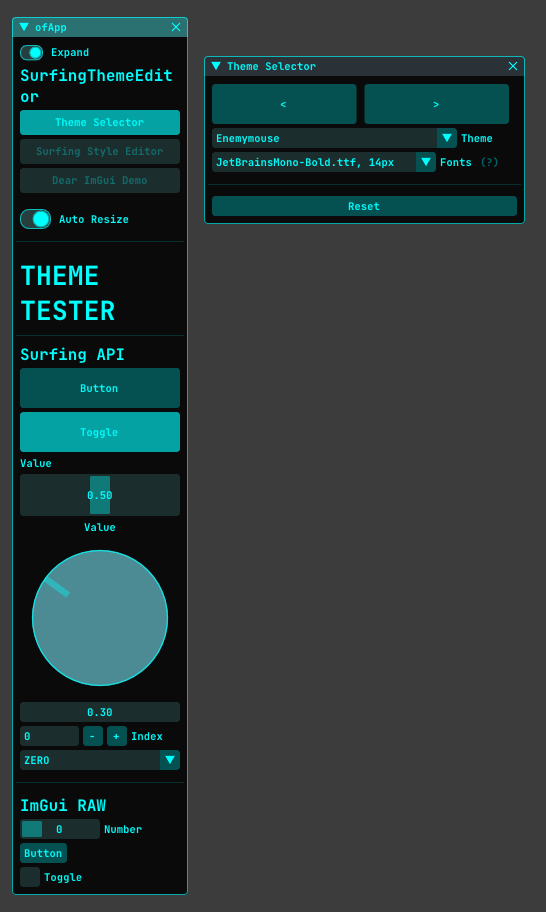
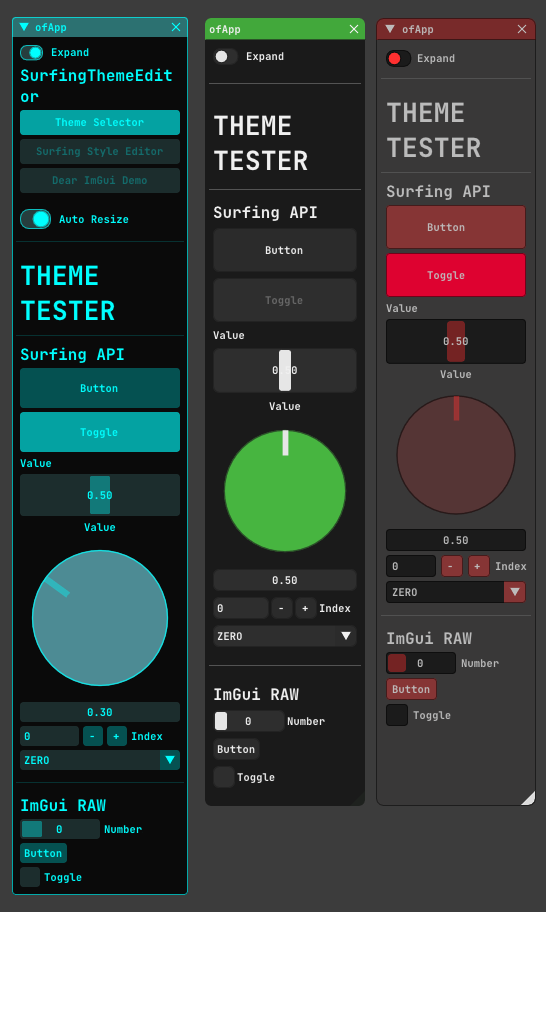
improved theme editor

diff --git a/src/ImGui/themes/SurfingThemes.h b/src/ImGui/themes/SurfingThemes.h
@@ -20,15 +20,11 @@ using namespace ImGui;
 
 namespace ofxImGuiSurfing
 {
-	//TODO: how to link params..
+	// To link with the window.
 	namespace SurfingThemes
 	{
-		static ofParameter<bool> bEnableColors;
-		static ofParameter<bool> bEnableLayout;
-		//ofParameter<bool> bEnableColors;
-		//ofParameter<bool> bEnableLayout;
-		//extern ofParameter<bool> bEnableColors;
-		//extern ofParameter<bool> bEnableLayout;
+		static bool bEnableColors = false;
+		static bool bEnableLayout = false;
 	}
 
 	using namespace SurfingThemes;
@@ -130,39 +126,39 @@ namespace ofxImGuiSurfing
 			style.Colors[ImGuiCol_ScrollbarGrabActive] = ImVec4(0.509f, 0.509f, 0.509f, 1.0f);
 			style.Colors[ImGuiCol_CheckMark] = ImVec4(0.259f, 0.589f, 0.98f, 1.0f);
 			style.Colors[ImGuiCol_SliderGrab] = ImVec4(0.432f, 0.188f, 1.0f, 1.0f);
-			style.Colors[ImGuiCol_SliderGrabActive] = ImVec4(0.2599999904632568f, 0.5899999737739563f, 0.9800000190734863f, 1.0f);
-			style.Colors[ImGuiCol_Button] = ImVec4(0.4034333229064941f, 0.0f, 1.0f, 1.0f);
-			style.Colors[ImGuiCol_ButtonHovered] = ImVec4(0.2588235437870026f, 0.5882353186607361f, 0.9764705896377563f, 1.0f);
-			style.Colors[ImGuiCol_ButtonActive] = ImVec4(1.0f, 0.9785406589508057f, 0.0f, 1.0f);
-			style.Colors[ImGuiCol_Header] = ImVec4(0.2588235437870026f, 0.5882353186607361f, 0.9764705896377563f, 0.3100000023841858f);
-			style.Colors[ImGuiCol_HeaderHovered] = ImVec4(0.2588235437870026f, 0.5882353186607361f, 0.9764705896377563f, 0.800000011920929f);
-			style.Colors[ImGuiCol_HeaderActive] = ImVec4(0.2588235437870026f, 0.5882353186607361f, 0.9764705896377563f, 1.0f);
-			style.Colors[ImGuiCol_Separator] = ImVec4(0.4274509847164154f, 0.4274509847164154f, 0.4980392158031464f, 0.5f);
-			style.Colors[ImGuiCol_SeparatorHovered] = ImVec4(0.09803921729326248f, 0.4000000059604645f, 0.7490196228027344f, 0.7799999713897705f);
-			style.Colors[ImGuiCol_SeparatorActive] = ImVec4(0.09803921729326248f, 0.4000000059604645f, 0.7490196228027344f, 1.0f);
-			style.Colors[ImGuiCol_ResizeGrip] = ImVec4(0.2588235437870026f, 0.5882353186607361f, 0.9764705896377563f, 0.2000000029802322f);
-			style.Colors[ImGuiCol_ResizeGripHovered] = ImVec4(0.2588235437870026f, 0.5882353186607361f, 0.9764705896377563f, 0.6700000166893005f);
-			style.Colors[ImGuiCol_ResizeGripActive] = ImVec4(0.2588235437870026f, 0.5882353186607361f, 0.9764705896377563f, 0.949999988079071f);
-			style.Colors[ImGuiCol_Tab] = ImVec4(0.1764705926179886f, 0.3490196168422699f, 0.5764706134796143f, 0.8619999885559082f);
-			style.Colors[ImGuiCol_TabHovered] = ImVec4(0.2588235437870026f, 0.5882353186607361f, 0.9764705896377563f, 0.800000011920929f);
-			style.Colors[ImGuiCol_TabActive] = ImVec4(0.196078434586525f, 0.407843142747879f, 0.6784313917160034f, 1.0f);
-			style.Colors[ImGuiCol_TabUnfocused] = ImVec4(0.06666667014360428f, 0.1019607856869698f, 0.1450980454683304f, 0.9724000096321106f);
-			style.Colors[ImGuiCol_TabUnfocusedActive] = ImVec4(0.1333333402872086f, 0.2588235437870026f, 0.4235294163227081f, 1.0f);
-			style.Colors[ImGuiCol_PlotLines] = ImVec4(0.6078431606292725f, 0.6078431606292725f, 0.6078431606292725f, 1.0f);
-			style.Colors[ImGuiCol_PlotLinesHovered] = ImVec4(1.0f, 0.4274509847164154f, 0.3490196168422699f, 1.0f);
-			style.Colors[ImGuiCol_PlotHistogram] = ImVec4(0.8980392217636108f, 0.6980392336845398f, 0.0f, 1.0f);
-			style.Colors[ImGuiCol_PlotHistogramHovered] = ImVec4(1.0f, 0.6000000238418579f, 0.0f, 1.0f);
-			style.Colors[ImGuiCol_TableHeaderBg] = ImVec4(0.1882352977991104f, 0.1882352977991104f, 0.2000000029802322f, 1.0f);
-			style.Colors[ImGuiCol_TableBorderStrong] = ImVec4(0.3098039329051971f, 0.3098039329051971f, 0.3490196168422699f, 1.0f);
-			style.Colors[ImGuiCol_TableBorderLight] = ImVec4(0.2274509817361832f, 0.2274509817361832f, 0.2470588237047195f, 1.0f);
-			style.Colors[ImGuiCol_TableRowBg] = ImVec4(0.0f, 0.0f, 0.0f, 0.0f);
-			style.Colors[ImGuiCol_TableRowBgAlt] = ImVec4(1.0f, 1.0f, 1.0f, 0.05999999865889549f);
-			style.Colors[ImGuiCol_TextSelectedBg] = ImVec4(0.2588235437870026f, 0.5882353186607361f, 0.9764705896377563f, 0.3499999940395355f);
-			style.Colors[ImGuiCol_DragDropTarget] = ImVec4(1.0f, 1.0f, 0.0f, 0.8999999761581421f);
-			style.Colors[ImGuiCol_NavHighlight] = ImVec4(0.2588235437870026f, 0.5882353186607361f, 0.9764705896377563f, 1.0f);
-			style.Colors[ImGuiCol_NavWindowingHighlight] = ImVec4(1.0f, 1.0f, 1.0f, 0.699999988079071f);
-			style.Colors[ImGuiCol_NavWindowingDimBg] = ImVec4(0.800000011920929f, 0.800000011920929f, 0.800000011920929f, 0.2000000029802322f);
-			style.Colors[ImGuiCol_ModalWindowDimBg] = ImVec4(0.800000011920929f, 0.800000011920929f, 0.800000011920929f, 0.3499999940395355f);
+			style.Colors[ImGuiCol_SliderGrabActive] = ImVec4(0.260f, 0.590f, 0.980f, 1.0f);
+			style.Colors[ImGuiCol_Button] = ImVec4(0.403f, 0.000f, 1.000f, 1.0f);
+			style.Colors[ImGuiCol_ButtonHovered] = ImVec4(0.259f, 0.588f, 0.976f, 1.0f);
+			style.Colors[ImGuiCol_ButtonActive] = ImVec4(1.000f, 0.979f, 0.000f, 1.0f);
+			style.Colors[ImGuiCol_Header] = ImVec4(0.259f, 0.588f, 0.976f, 0.310f);
+			style.Colors[ImGuiCol_HeaderHovered] = ImVec4(0.259f, 0.588f, 0.976f, 0.800f);
+			style.Colors[ImGuiCol_HeaderActive] = ImVec4(0.259f, 0.588f, 0.976f, 1.000f);
+			style.Colors[ImGuiCol_Separator] = ImVec4(0.427f, 0.427f, 0.498f, 0.5f);
+			style.Colors[ImGuiCol_SeparatorHovered] = ImVec4(0.098f, 0.400f, 0.749f, 0.780f);
+			style.Colors[ImGuiCol_SeparatorActive] = ImVec4(0.098f, 0.400f, 0.749f, 1.000f);
+			style.Colors[ImGuiCol_ResizeGrip] = ImVec4(0.259f, 0.588f, 0.976f, 0.200f);
+			style.Colors[ImGuiCol_ResizeGripHovered] = ImVec4(0.259f, 0.588f, 0.976f, 0.670f);
+			style.Colors[ImGuiCol_ResizeGripActive] = ImVec4(0.259f, 0.588f, 0.976f, 0.950f);
+			style.Colors[ImGuiCol_Tab] = ImVec4(0.176f, 0.349f, 0.576f, 0.862f);
+			style.Colors[ImGuiCol_TabHovered] = ImVec4(0.259f, 0.588f, 0.976f, 0.800f);
+			style.Colors[ImGuiCol_TabActive] = ImVec4(0.196f, 0.408f, 0.678f, 1.000f);
+			style.Colors[ImGuiCol_TabUnfocused] = ImVec4(0.067f, 0.102f, 0.145f, 0.972f);
+			style.Colors[ImGuiCol_TabUnfocusedActive] = ImVec4(0.133f, 0.259f, 0.424f, 1.000f);
+			style.Colors[ImGuiCol_PlotLines] = ImVec4(0.608f, 0.608f, 0.608f, 1.000f);
+			style.Colors[ImGuiCol_PlotLinesHovered] = ImVec4(1.000f, 0.427f, 0.349f, 1.000f);
+			style.Colors[ImGuiCol_PlotHistogram] = ImVec4(0.898f, 0.698f, 0.000f, 1.000f);
+			style.Colors[ImGuiCol_PlotHistogramHovered] = ImVec4(1.000f, 0.600f, 0.000f, 1.000f);
+			style.Colors[ImGuiCol_TableHeaderBg] = ImVec4(0.188f, 0.188f, 0.200f, 1.000f);
+			style.Colors[ImGuiCol_TableBorderStrong] = ImVec4(0.310f, 0.310f, 0.349f, 1.000f);
+			style.Colors[ImGuiCol_TableBorderLight] = ImVec4(0.227f, 0.227f, 0.247f, 1.000f);
+			style.Colors[ImGuiCol_TableRowBg] = ImVec4(0.000f, 0.000f, 0.000f, 0.000f);
+			style.Colors[ImGuiCol_TableRowBgAlt] = ImVec4(1.000f, 1.000f, 1.000f, 0.060f);
+			style.Colors[ImGuiCol_TextSelectedBg] = ImVec4(0.259f, 0.588f, 0.976f, 0.350f);
+			style.Colors[ImGuiCol_DragDropTarget] = ImVec4(1.000f, 1.000f, 0.000f, 0.900f);
+			style.Colors[ImGuiCol_NavHighlight] = ImVec4(0.259f, 0.588f, 0.976f, 1.000f);
+			style.Colors[ImGuiCol_NavWindowingHighlight] = ImVec4(1.000f, 1.000f, 1.000f, 0.700f);
+			style.Colors[ImGuiCol_NavWindowingDimBg] = ImVec4(0.800f, 0.800f, 0.800f, 0.200f);
+			style.Colors[ImGuiCol_ModalWindowDimBg] = ImVec4(0.800f, 0.800f, 0.800f, 0.350f);
 		}
 	}
 
@@ -598,7 +594,6 @@ namespace ofxImGuiSurfing
 
 		if (bEnableLayout)
 		{
-
 			style->ChildRounding = 4.0f;
 			style->FrameBorderSize = 1.0f;
 			style->FrameRounding = 2.0f;
@@ -947,6 +942,8 @@ namespace ofxImGuiSurfing
 		}
 	}
 
+	//--
+
 	// Cyberpunk Neon [Improvised]
 	// https://github.com/Roboron3042/Cyberpunk-Neon
 	//--------------------------------------------------------------
@@ -1009,6 +1006,7 @@ namespace ofxImGuiSurfing
 		}
 	}
 
+	//--
 
 	// Nord/Nordic GTK [Improvised]
 	// https://github.com/EliverLara/Nordic
@@ -1179,6 +1177,8 @@ namespace ofxImGuiSurfing
 		}
 	}
 
+	//--
+
 	// Rounded Visual Studio style by RedNicStone from ImThemes
 	//--------------------------------------------------------------
 	static void ImGui_ThemeVisualStudioRounded()
@@ -1279,6 +1279,8 @@ namespace ofxImGuiSurfing
 		}
 	}
 
+	//--
+
 	// Visual Studio style by MomoDeve from ImThemes
 	//--------------------------------------------------------------
 	static void ImGui_ThemeVisualStudio()
@@ -1377,6 +1379,8 @@ namespace ofxImGuiSurfing
 			style.Colors[ImGuiCol_ModalWindowDimBg] = ImVec4(0.1450980454683304f, 0.1450980454683304f, 0.1490196138620377f, 1.0f);
 		}
 	}
+
+	//--
 
 	// Photoshop style by Derydoca from ImThemes
 	//--------------------------------------------------------------
@@ -1478,6 +1482,8 @@ namespace ofxImGuiSurfing
 		}
 	}
 
+	//--
+
 	// Material Flat style by ImJC1C from ImThemes
 	//--------------------------------------------------------------
 	static void ImGui_ThemeMaterialFlat()
@@ -1578,6 +1584,8 @@ namespace ofxImGuiSurfing
 		}
 	}
 
+	//--
+
 	//--------------------------------------------------------------
 	static void ImGui_ThemeEnemymouse()
 	{
@@ -1677,6 +1685,8 @@ namespace ofxImGuiSurfing
 			style.Colors[ImGuiCol_ModalWindowDimBg] = ImVec4(0.03921568766236305f, 0.09803921729326248f, 0.08627451211214066f, 0.5099999904632568f);
 		}
 	}
+
+	//--
 
 	static void ImGui_ThemeDeepDark()
 	{
@@ -1904,6 +1914,8 @@ namespace ofxImGuiSurfing
 		}
 	}
 
+	//--
+
 	static void ImGui_ThemeSequentity()
 	{
 		ofLogNotice("ofxSurfingImGui") << "ImGui_ThemeSequentity";
@@ -2018,6 +2030,8 @@ namespace ofxImGuiSurfing
 		}
 	}
 
+	//--
+
 	static void ImGui_ThemeT3()
 	{
 		ofLogNotice("ofxSurfingImGui") << "ImGui_ThemeT3";
@@ -2110,6 +2124,8 @@ namespace ofxImGuiSurfing
 		}
 	}
 
+	//--
+
 	// Taken from @aiekick
 	// Base theme (Green / Blue) of ImGuiFontStudio
 	//--------------------------------------------------------------
@@ -2180,6 +2196,8 @@ namespace ofxImGuiSurfing
 		//----
 	}
 
+	//--
+
 	//--------------------------------------------------------------
 	static void ImGui_ThemeAiekickRedDark()
 	{
@@ -2247,6 +2265,8 @@ namespace ofxImGuiSurfing
 
 		//----
 	}
+
+	//--
 
 	// Taken from @Trippasch 
 	// https://github.com/Trippasch
@@ -2337,6 +2357,8 @@ namespace ofxImGuiSurfing
 			style.ChildRounding = 4;
 		}
 	}
+
+	//--
 
 	// Taken from @Maksasj 
 	// https://github.com/Maksasj

diff --git a/src/ImGui/themes/SurfingThemeEditor.h b/src/ImGui/themes/SurfingThemeEditor.h
@@ -68,6 +68,13 @@ public:
 
 	SurfingThemeEditor()
 	{
+		////ofParameter<bool> ofxImGuiSurfing::SurfingThemes::bEnableColors_;
+		////ofxImGuiSurfing::SurfingThemes::bEnableColors_
+		////ofxImGuiSurfing::SurfingThemes::bEnableColors.set("Colors", true);
+		////ofxImGuiSurfing::SurfingThemes::bEnableLayout.set("Layout", true);
+		//bEnableColors.makeReferenceTo(ofxImGuiSurfing::SurfingThemes::bEnableColors);
+		//bEnableLayout.makeReferenceTo(ofxImGuiSurfing::SurfingThemes::bEnableLayout);
+
 		bGui_Editor.set("Surfing Style Editor", false);
 		bGui_ThemeSelector.set("Theme Selector", false);
 		bGui_Demo.set("Dear ImGui Demo", false);
@@ -83,8 +90,8 @@ public:
 
 		//ofParameter<bool> ofxImGuiSurfing::SurfingThemes::bEnableColors{ "b",0 };
 
-		ofxImGuiSurfing::SurfingThemes::bEnableColors.makeReferenceTo(bEnableColors);
-		ofxImGuiSurfing::SurfingThemes::bEnableLayout.makeReferenceTo(bEnableLayout);
+		//ofxImGuiSurfing::SurfingThemes::bEnableColors.makeReferenceTo(bEnableColors);
+		//ofxImGuiSurfing::SurfingThemes::bEnableLayout.makeReferenceTo(bEnableLayout);
 	};
 
 	~SurfingThemeEditor()
@@ -194,6 +201,9 @@ private:
 		ofxImGuiSurfing::SameLine();
 		ofxImGuiSurfing::AddParameter(bEnableLayout);
 
+		ofxImGuiSurfing::SurfingThemes::bEnableColors = bEnableColors;
+		ofxImGuiSurfing::SurfingThemes::bEnableLayout = bEnableLayout;
+
 		ofxImGuiSurfing::AddSpacingBigSeparated();
 
 		ImGui::ShowStyleEditor(&style);
@@ -211,20 +221,40 @@ public:
 	{
 		if (ui == nullptr) return;
 
-		if (ui->BeginWindow(bGui_ThemeSelector))
+		ImGuiWindowFlags window_flags = ImGuiWindowFlags_None;
+		if (1) window_flags |= ImGuiWindowFlags_AlwaysAutoResize;
+
+		if (ui->BeginWindow(bGui_ThemeSelector, window_flags))
 		{
 			ofxImGuiSurfing::drawThemeSelector(NULL);
 
 			ui->AddSpacingBigSeparated();
 
-			ImVec2 sz1(ImGui::GetContentRegionAvail().x, 1.5 * ImGui::GetFrameHeight());
+			size_t n = 4;
+			float w = ui->getWidgetsWidth(n);
+			float h = 1.5 * ImGui::GetFrameHeight();
+			ImVec2 sz1(w, h);
 
-			if (ui->AddButton("Reset", sz1))
+			ui->AddLabelBig("Resets");
+			if (ui->AddButton("R1", sz1))
 			{
-				//ImGui::StyleColorsLight();
-
 				ofxImGui::DefaultTheme* defaultTheme = new ofxImGui::DefaultTheme();
 				ui->getGuiPtr()->setTheme((ofxImGui::BaseTheme*)defaultTheme);
+			}
+			ui->SameLine();
+			if (ui->AddButton("R2", sz1))
+			{
+				ofxImGuiSurfing::ImGui_ThemeMoebiusSurfingV2();
+			}
+			ui->SameLine();
+			if (ui->AddButton("R3", sz1))
+			{
+				ofxImGuiSurfing::ImGui_ThemeMoebiusSurfingBlue();
+			}
+			ui->SameLine();
+			if (ui->AddButton("R4", sz1))
+			{
+				ImGui::StyleColorsLight();
 			}
 
 			ui->EndWindow();

diff --git a/src/ImGui/themes/SurfingThemesHelpers.h b/src/ImGui/themes/SurfingThemesHelpers.h
@@ -67,6 +67,7 @@ namespace ofxImGuiSurfing
 
 		// Browse
 
+		ImGui::PushButtonRepeat(true);
 		if (ImGui::Button("<", sz2)) {
 			i--;
 			i = ofClamp(i, 0, values.size() - 1);
@@ -82,6 +83,7 @@ namespace ofxImGuiSurfing
 			ofLogNotice("ofxSurfingImGui") << "Index: " << i;
 			b1 = true;
 		}
+		ImGui::PopButtonRepeat();
 
 		// Combo
 
@@ -139,6 +141,8 @@ namespace ofxImGuiSurfing
 	//--------------------------------------------------------------
 	inline void drawThemeSelector(ImGuiStyle* ref)
 	{
+		//TODO: not working?
+		 
 		// You can pass in a reference ImGuiStyle structure to compare to, revert to and save to
 		// (without a reference style pointer, we will use one compared locally as a reference)
 		ImGuiStyle& style = ImGui::GetStyle();
@@ -151,6 +155,8 @@ namespace ofxImGuiSurfing
 		if (ref == NULL) ref = &ref_saved_style;
 
 		if (ofxImGuiSurfing::drawWidgetsThemeSelector("Colors##Selector")) ref_saved_style = style;
+		
+		ImGui::Separator();
 
 		ImGui::ShowFontSelector("Fonts##Selector");
 	}
